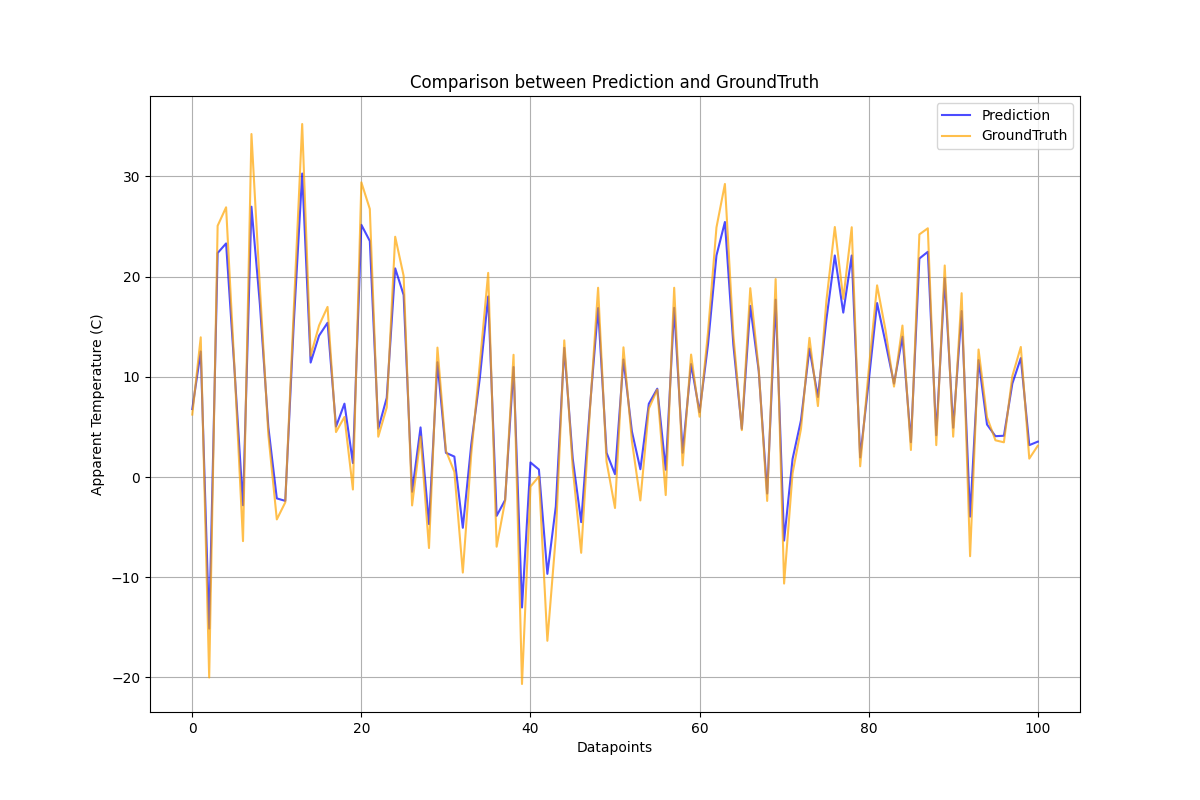
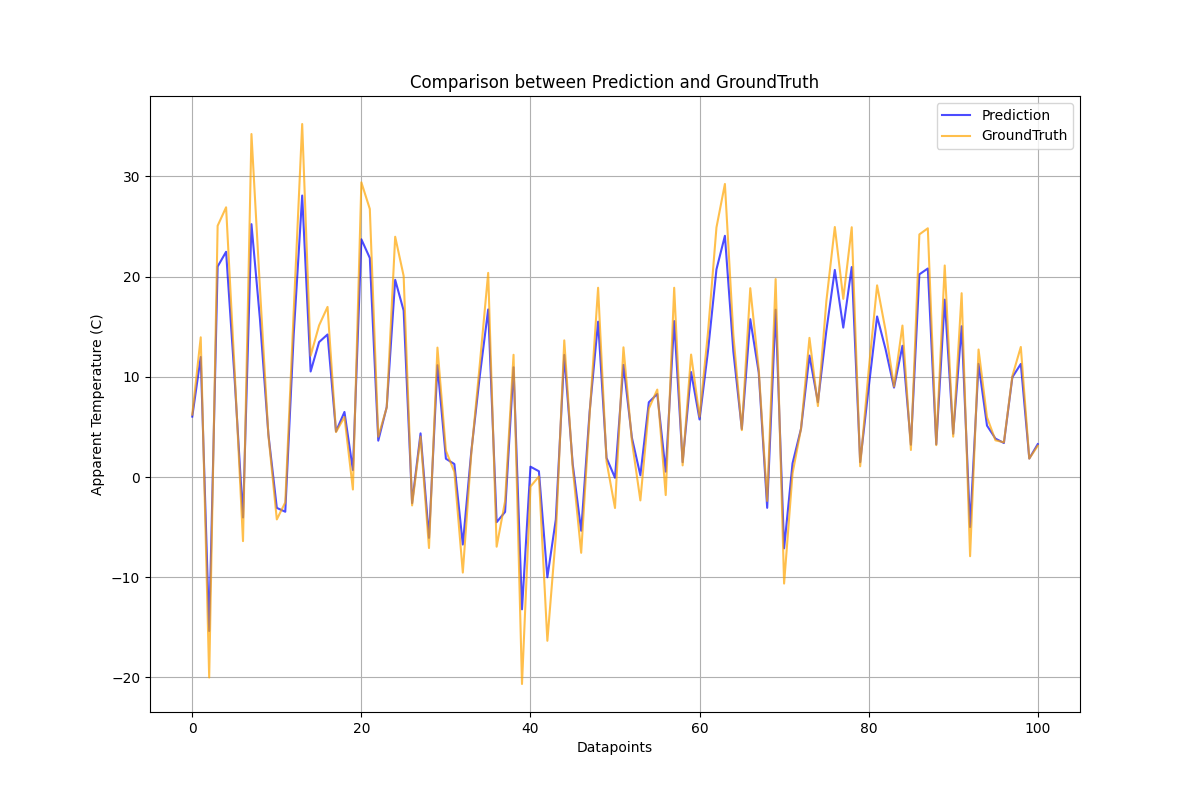
Integrated optuna / hyperparam optimization

diff --git a/src/Model.py b/src/Model.py
@@ -45,9 +45,11 @@ class Model(nn.Module, ConfigYAML):
             -> Makes predictions
     """
     def __init__(self, input_size: int, hidden_size: int,
-                 output_size: int =1, dropout_rate: float =0.3):
+                 output_size: int):
         ConfigYAML.__init__(self)
         nn.Module.__init__(self)
+        self.lr = self.config_data["modelParams"]["lr"]
+        self.dropout_rate = self.config_data["modelParams"]["dropout_rate"]
 
         self.layer1 = nn.Linear(input_size, hidden_size)
         self.bn1 = nn.BatchNorm1d(hidden_size)
@@ -63,7 +65,7 @@ class Model(nn.Module, ConfigYAML):
 
         self.layer5 = nn.Linear(hidden_size, output_size)
 
-        self.dropout = nn.Dropout(p=dropout_rate)
+        self.dropout = nn.Dropout(p=self.dropout_rate)
         self.relu = nn.ReLU()
 
     def forward(self, x):
@@ -93,7 +95,7 @@ class Model(nn.Module, ConfigYAML):
         x = self.layer5(x)
         return x
 
-    def train_model(self, train_loader, val_loader) -> None:
+    def train_model(self, train_loader, val_loader, save: bool =True) -> None:
         """
         Trains and saves the model
 
@@ -108,14 +110,14 @@ class Model(nn.Module, ConfigYAML):
         --------
             None
         """
-        criterion = nn.MSELoss()
-        optimizer = optim.Adam(self.parameters(), lr=self.config_data["modelParams"]["lr"])
+        optimizer = optim.Adam(self.parameters(), lr=self.lr)
         epochs = self.config_data["modelParams"]["epochs"]
+        criterion = nn.MSELoss()
 
         input_example = np.random.randn(1, self.layer1.in_features).astype(np.float32)
         # Start MLflow experiment
         with mlflow.start_run():
-            mlflow.log_param("learning_rate", self.config_data["modelParams"]["lr"])
+            mlflow.log_param("learning_rate", self.lr)
             mlflow.log_param("epochs", epochs)
             mlflow.log_param("dropout_rate", self.dropout.p)
 
@@ -149,11 +151,15 @@ class Model(nn.Module, ConfigYAML):
                 mlflow.log_metric("validation_r2", r2, step=epoch + 1)
 
             # Save model
-            model_name = str(self.config_data['Dataset']['name']).split('.', maxsplit=1)[0]
-            model_path = f"{ConfigPaths().folder_model()}/{model_name}.pth"
-            torch.save(self.state_dict(), model_path)
-            mlflow.log_artifact(model_path, artifact_path="models")
-            pytorch.log_model(self, "pytorch-model", input_example=input_example)
+            if save:
+                model_name = str(self.config_data['Dataset']['name']).split('.', maxsplit=1)[0]
+                model_path = f"{ConfigPaths().folder_model()}/{model_name}.pth"
+                torch.save(self.state_dict(), model_path)
+                mlflow.log_artifact(model_path, artifact_path="models")
+                pytorch.log_model(self, "pytorch-model", input_example=input_example)
+                print("Saved model!")
+
+            return val_loss, r2
 
     def evaluate(self, val_loader, criterion=nn.MSELoss()) -> list:
         """
@@ -266,6 +272,45 @@ class Model(nn.Module, ConfigYAML):
         ss_residual = np.sum((y_true - y_pred) ** 2)
         r2: float = 1 - (ss_residual / ss_total)
         return r2
+
+# Objective function for optuna
+def objective(trial, train_loader, val_loader) -> float:
+    """ 
+    Objective function for optunas hyperparamet optimization
+
+    Parameters:
+    -----------
+        trial -> Needed for optuna (automatic)
+        train_loader
+            -> Training DataLoader
+        val_loader
+            -> Validation DataLoader
+
+    Returns:
+    --------
+        float
+            -> Loss of the model
+    """
+    config_params = ConfigYAML().config_data
+    input_size = config_params["modelParams"]["input_size"]
+    output_size = config_params["modelParams"]["output_size"]
+
+    # Hyperparams to tune
+    hidden_size = trial.suggest_int("hidden_size", 32, 256, step=32)
+    dropout_rate = trial.suggest_float("dropout_rate", 0.1, 0.8)
+    learning_rate = trial.suggest_float("learning_rate", 1e-5, 1e-2, log=True)
+
+    # Create model
+    model = Model(input_size, hidden_size, output_size)
+    model.lr = learning_rate
+    model.dropout_rate = dropout_rate
+
+    # Returns loss and r2
+    loss, _ = model.train_model(
+        train_loader=train_loader,
+        val_loader=val_loader,
+        save=False)
+    return loss
 
 
 if __name__ == "__main__":

diff --git a/main.py b/main.py
@@ -7,11 +7,14 @@ File is written in pylint standard.
 
 @author Lukas Graf
 """
+from functools import partial
+
+import optuna
 import torch
 import pandas as pd
 
-from src.Model import Model
 from src.Dataset import Dataset
+from src.Model import Model, objective
 from src.Config import ConfigPaths, ConfigYAML
 
 
@@ -56,9 +59,11 @@ def load_dataset() -> dict:
 
 def model_mode_output(model_name: str, mode: str, X: pd.DataFrame =None):
     """ 
-    Loads, trains / evaluates / makes prediction model
+    Loads, trains / evaluates / makes prediction model and performs
+    hyperparameter optimization if train and hypTuning
         1. Load a given model or create a new one
-        2. Make training / evaluation / prediction
+        2. Hyperparameteroptimization
+        3. Make training / evaluation / prediction
 
     Parameters:
     -----------
@@ -76,6 +81,30 @@ def model_mode_output(model_name: str, mode: str, X: pd.DataFrame =None):
     """
     dataloaders = load_dataset()
     dataset = Dataset()
+
+    # Hyperparam tuning and updating params for final model
+    hyp_tuning: bool = dataset.config_data["HyperParamTuning"]["hypTuning"]
+    if hyp_tuning and mode=="train":
+        study = optuna.create_study(direction="minimize")
+        study.optimize(
+            partial(
+                objective, 
+                train_loader=dataloaders["data_train"], 
+                val_loader=dataloaders["data_val"]
+                ),
+            n_trials=dataset.config_data["HyperParamTuning"]["hypNumTrials"]
+        )
+
+        best_params = study.best_params
+        dataset.config_data["modelParams"]["hidden_size"] = best_params["hidden_size"]
+        dataset.config_data["modelParams"]["dropout_rate"] = best_params["dropout_rate"]
+        dataset.config_data["modelParams"]["lr"] = best_params["learning_rate"]
+        ConfigYAML.write_yaml(dataset.config_data)
+
+    elif hyp_tuning and mode!="train":
+        raise ValueError(
+            "If you want to do hyperparameter optimization you have to set modelMode to train!"
+            )
 
     # Choose model
     if model_name is None:
@@ -97,14 +126,13 @@ def model_mode_output(model_name: str, mode: str, X: pd.DataFrame =None):
             weights_only=True
             ))
 
-
     # Choose model mode
     if mode == "train":
-        model.train_model(
-            train_loader=dataloaders["data_train"],
-            val_loader=dataloaders["data_val"]
-        )
-        results = print("Model trained successfully!")
+        loss, r2 = model.train_model(
+                            train_loader=dataloaders["data_train"],
+                            val_loader=dataloaders["data_val"]
+                        )
+        results = {"loss" : loss, "r2" : r2}
 
     elif mode == "evaluate":
         avg_loss, r2 = model.evaluate(val_loader=dataloaders["data_test"])

diff --git a/config/README.md b/config/README.md
@@ -47,6 +47,14 @@ The current config.yaml holds standard values that are set for a overall good an
 ### Visualization
 ---
 **visBool** : If True the prediction and ground truth of your dataset will be plotted to see differences
+
 **visFormat** : Format in which you want to save your plot. Can be png, svg, pdf, ...
+
 **visMaxSteps** : If your dataset is very large and you plot both prediction and ground truth you just get a big block because there are to many datapoints. With this Parameter you can reduce the points you want to plot. If the parameter is set to **null** all the datapoints will be plotted.
+
+### HyperParamTuning
+---
+**hypTuning** : Bool if you want to tune your parameters. Only works if training mode is enabled.
+
+**hypNumTrials** : Number of trials you want to train.
 
